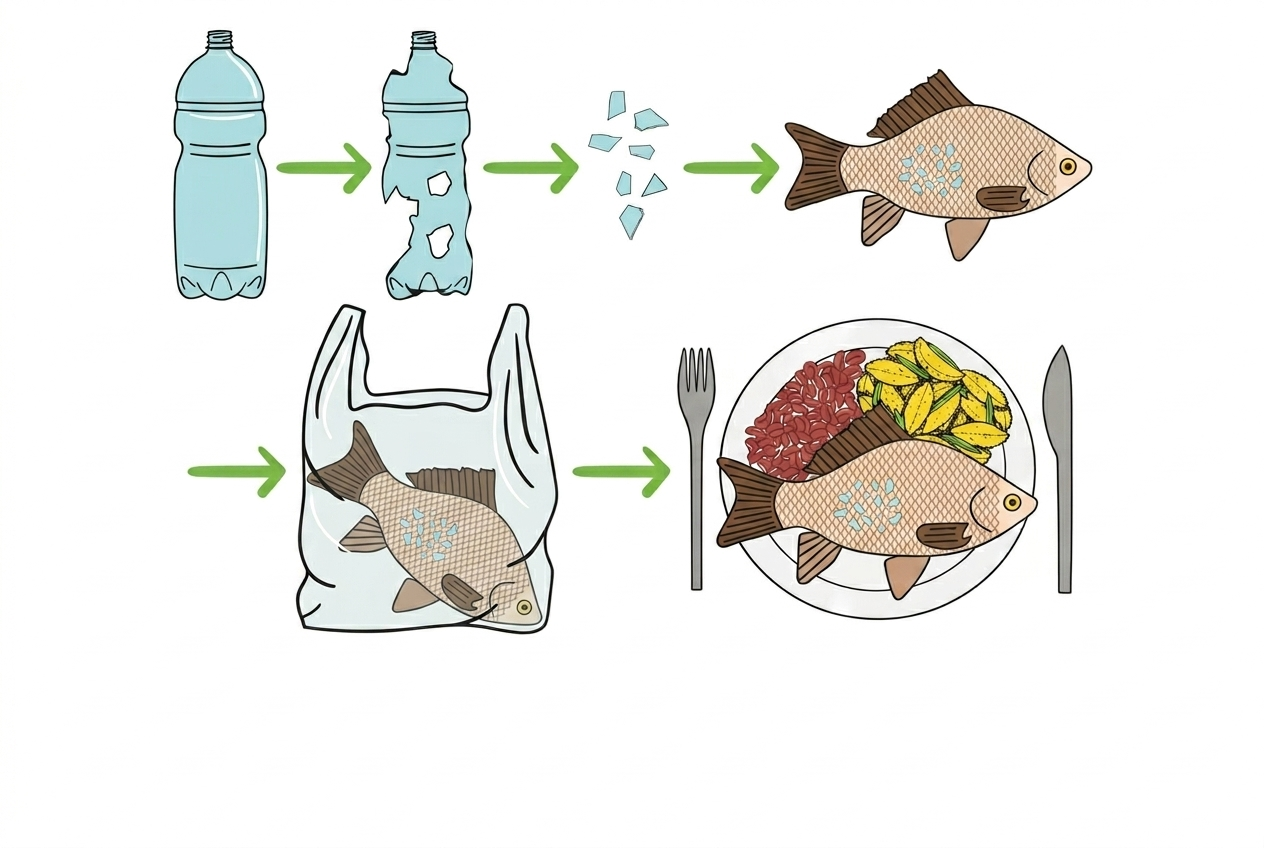
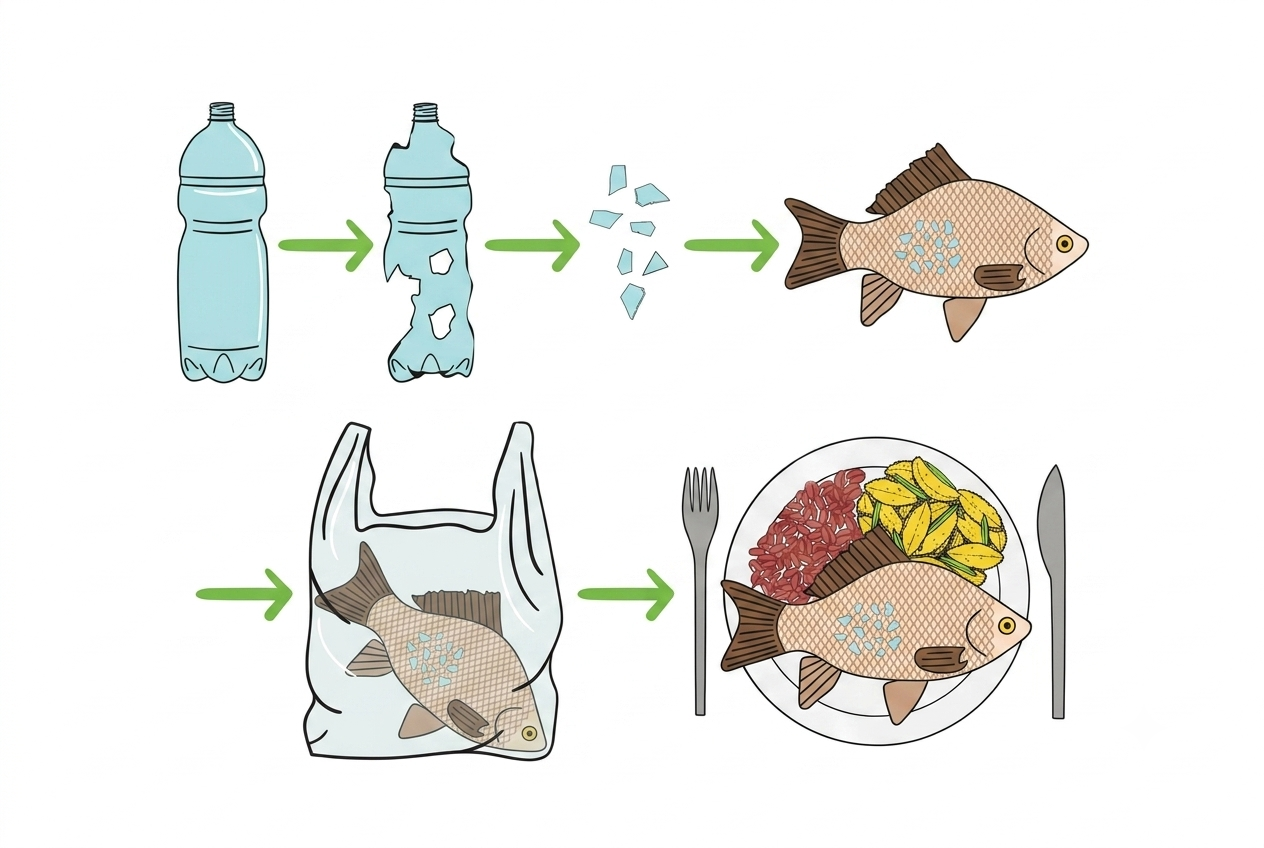
imagen centrada

Changed region(s): [[0.1234, 0.0307, 0.8639, 0.9198]]

diff --git a/styles.css b/styles.css
@@ -207,7 +207,8 @@ section h2::after {
   width: 100%;
   border-radius: 14px;
   object-fit: cover;
-  max-height: 300px;
+  object-position:center 20%;
+  max-height: 400px;
   display: block;
   border: 3px solid var(--turquesa-claro);
   box-shadow: 0 6px 24px rgba(46,125,125,0.12);
